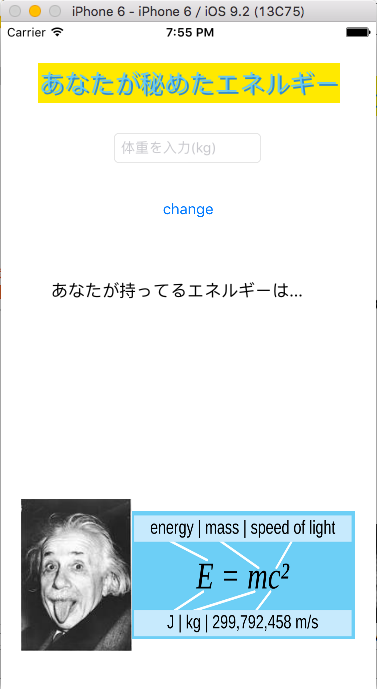
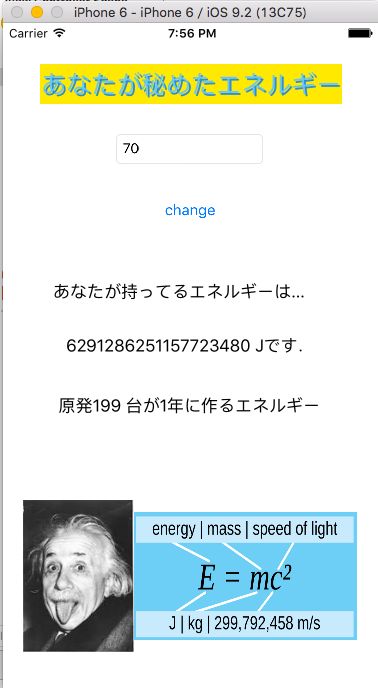
add 1 and 2 app

diff --git a/event.html b/event.html
@@ -41,15 +41,15 @@
       </section>
       <section>
         <h3><a href=https://twitter.com/hashtag/%E3%81%84%E3%81%84%E3%81%AD%E3%81%8D%E3%81%9F%E5%88%86%E3%81%A0%E3%81%91%E5%86%AC%E4%BC%91%E3%81%BF%E3%81%AB%E3%82%AF%E3%82%BD%E3%82%A2%E3%83%97%E3%83%AA%E3%82%92%E4%BD%9C%E3%82%8B?src=hash>#いいねがきた分だけ冬休みにクソアプリを作る</a></h3>
-          <u><h3>動機</h3></u>
-            <p>iOSアプリを昔から作ってみたかった．Swiftか... 冬休みやる？ ってことで軽はずみに以下のようなツイート．</p>
+          <u><h3>原因</h3></u>
+            <p>このツイートが原因</p>
           <center>
           <img src="./img/event/tweet.png" width="230" height="300">
           </center>
           <p>30分もたたずに21いいねがきました．<p>
           <p>ってことで，できるとは到底思わないけど，1月5日までに21個のクソアプリを生成します．</p>
           <p>Swiftとか「勉強いつかしてみたいな？」って数日前から思っていた人の思いつきですので，本当に<strong>クソアプリ</strong>です．温かい目で見てください．
-          <p><a href="http://mcg.hateblo.jp/entry/2015/12/24/193736">詳細はこちら</a></p>
+          <p><a href="http://mcg.hateblo.jp/entry/2015/12/24/193736">詳細</a></p>
 
       </section>
 
@@ -57,8 +57,17 @@
       <section>
         <u><h3>Works</h3></u>
           <ol style="list-style-type: decimal">
-          <h1>NULL</h1>
+          <li>あなたのエネルギーは？</li>
+          </ol>
+          <p>体重を入力すると，アインシュタインの特殊相対性理論を使って，その人が持っているエネルギーを計算してくれるアプリ．原発何基文に相当するかも計算してくれる．<a href="http://mcg.hateblo.jp/entry/2015/12/25/111849">詳細</a></p>
+          <p><img src="./img/event/1.png" width="230" height="320" class="photo"></p>
+          <ol start="2" style="list-style-type: decimal">
+          <li>テストの点数何点？</li>
+          </ol>
+          <p>乱数で0〜100が生成されるので，できるだけ少ない回数でテストの点数が点数が何点なのかを当てるゲーム．入力したら，「高いよ，低いよ，あってるよ」ってのを教えてくれる．<a href="http://mcg.hateblo.jp/entry/2015/12/25/112949">詳細</a></p></p>
+          <p><img src="./img/event/2.png" width="230" height="300" class="photo"></p>
         </section>
+
 
 
     <footer>
